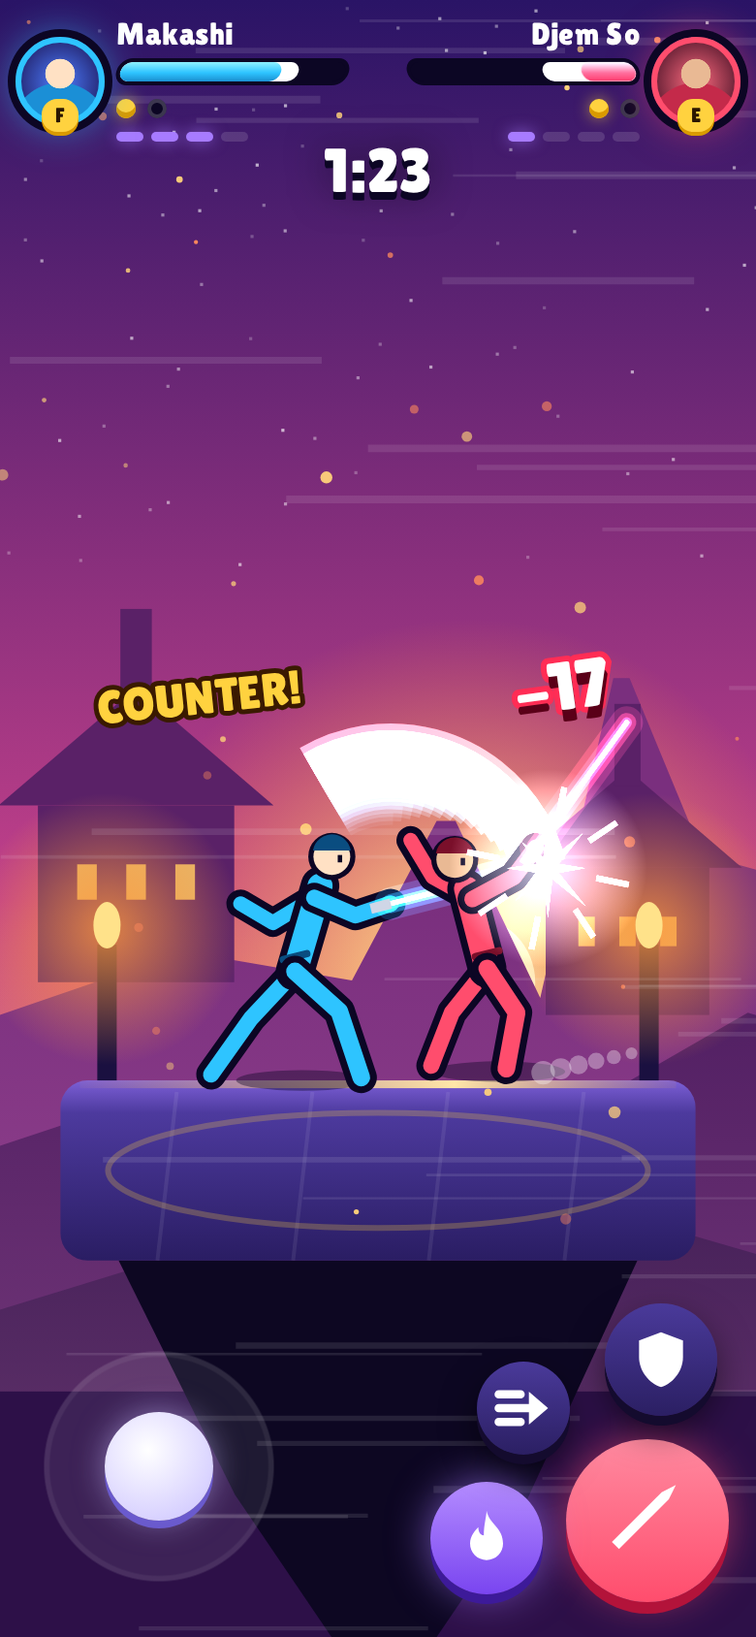
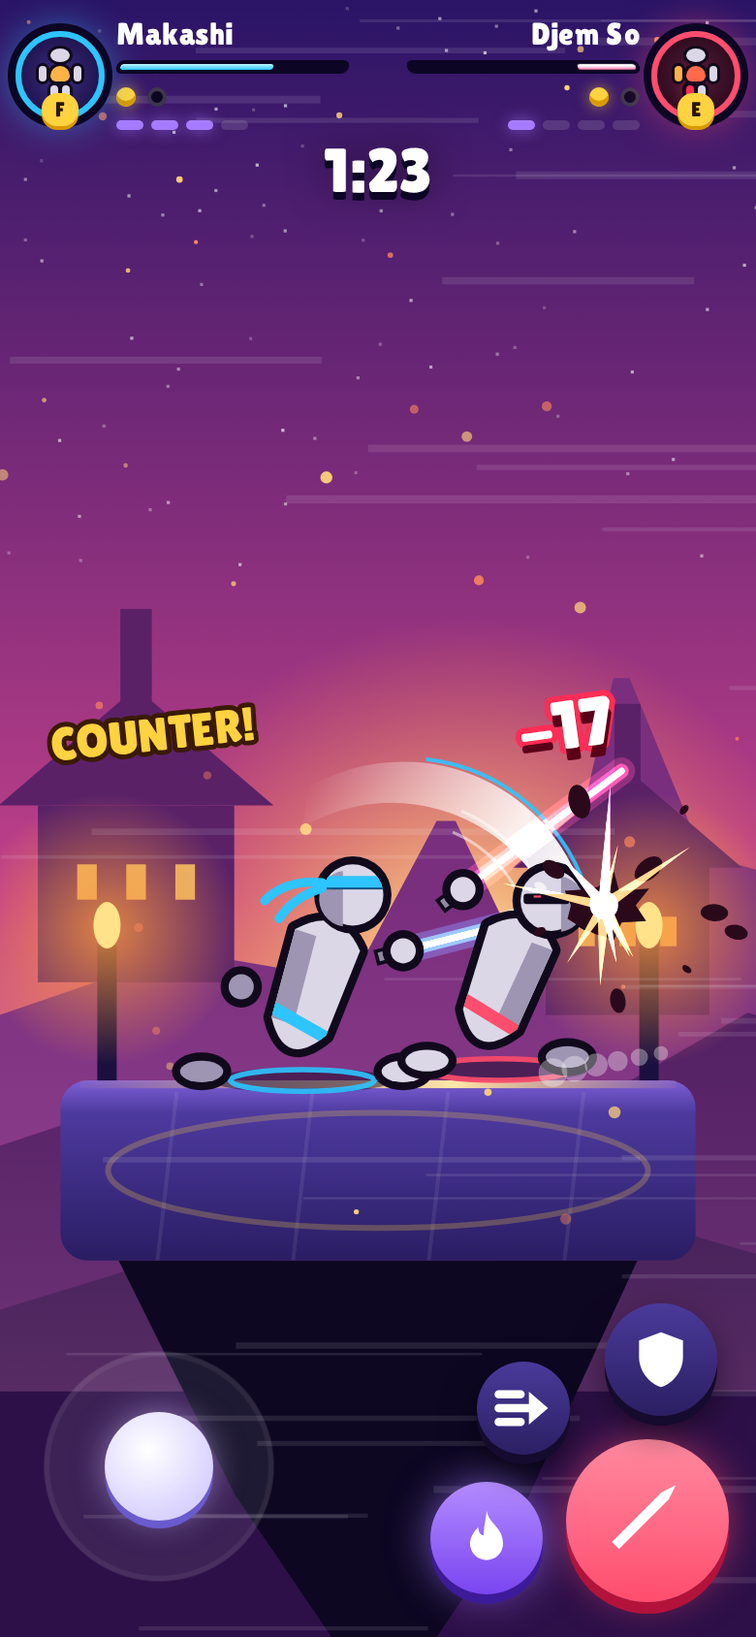
Redraw mockup fighters in a grim, Madness-inspired style; HUD uses injury doll and stamina

diff --git a/docs/v5-look/mock.html b/docs/v5-look/mock.html
@@ -35,7 +35,7 @@ canvas.bg{position:absolute;inset:0;width:100%;height:100%}
 .logo{font:400 3.2rem/0.9 var(--display);letter-spacing:.01em;background:linear-gradient(#fff 30%,#ffe08a 60%,#ff9a3c);-webkit-background-clip:text;color:transparent;filter:drop-shadow(0 4px 0 #3a1a00) drop-shadow(0 0 18px #ff8a3d88);transform:rotate(-3deg)}
 .logo small{display:block;font-size:.9rem;letter-spacing:.3em;background:none;color:var(--blue);-webkit-text-fill-color:var(--blue);filter:none;margin-top:4px;text-shadow:0 0 12px #2ec4ff}
 .player{margin-left:auto;display:flex;align-items:center;gap:12px;background:#1d1347cc;border:2px solid var(--line);border-radius:999px;padding:6px 18px 6px 6px;backdrop-filter:blur(6px)}
-.avatar{width:48px;height:48px;border-radius:50%;background:radial-gradient(circle at 50% 38%,#ffe1c4 0 26%,transparent 27%),radial-gradient(circle at 50% 110%,var(--blue) 0 48%,transparent 49%),linear-gradient(#3d6cff,#22164f);border:3px solid var(--blue);box-shadow:0 0 14px #2ec4ff88}
+.avatar{width:48px;height:48px;border-radius:50%;background:linear-gradient(transparent 28%,var(--blue) 28% 40%,transparent 40%) 50% 0/52% 100% no-repeat,radial-gradient(circle at 50% 42%,#dcd7e6 0 27%,#100a1c 28% 33%,transparent 34%),radial-gradient(circle at 50% 118%,#dcd7e6 0 44%,#100a1c 45% 50%,transparent 51%),linear-gradient(#3b2c86,#160c3a);border:3px solid var(--blue);box-shadow:0 0 14px #2ec4ff88}
 .player b{display:block;font:400 1.15rem/1 var(--display)}
 .rank{display:inline-flex;align-items:center;gap:6px;font-size:.8rem;color:var(--gold)}
 .rank i{display:inline-block;width:14px;height:14px;background:var(--gold);clip-path:polygon(50% 0,100% 38%,82% 100%,18% 100%,0 38%)}
@@ -59,8 +59,8 @@ canvas.bg{position:absolute;inset:0;width:100%;height:100%}
 .hud{position:absolute;inset:0;pointer-events:none}
 .fighter{position:absolute;top:18px;display:flex;align-items:center;gap:12px;width:min(38vw,440px)}
 .fighter.left{left:22px}.fighter.right{right:22px;flex-direction:row-reverse;text-align:right}
-.port{flex:none;width:78px;height:78px;border-radius:50%;border:4px solid var(--blue);background:radial-gradient(circle at 50% 40%,#ffe1c4 0 24%,transparent 25%),radial-gradient(circle at 50% 115%,#1b8fd6 0 50%,transparent 51%),radial-gradient(circle,#4c7dff,#1b1150);box-shadow:0 0 0 4px #0c0624,0 0 22px #2ec4ffaa;position:relative}
-.right .port{border-color:var(--red);background:radial-gradient(circle at 50% 40%,#e9b994 0 24%,transparent 25%),radial-gradient(circle at 50% 115%,#c42a4a 0 50%,transparent 51%),radial-gradient(circle,#ff6a7f,#3a0b20);box-shadow:0 0 0 4px #0c0624,0 0 22px #ff4d6daa}
+.port{flex:none;width:78px;height:78px;border-radius:50%;border:4px solid var(--blue);background:linear-gradient(transparent 31%,var(--blue) 31% 42%,transparent 42%) 50% 0/48% 100% no-repeat,radial-gradient(circle at 50% 44%,#dcd7e6 0 26%,#100a1c 27% 31%,transparent 32%),radial-gradient(circle at 50% 120%,#dcd7e6 0 44%,#100a1c 45% 49%,transparent 50%),radial-gradient(circle,#3b2c86,#160c3a);box-shadow:0 0 0 4px #0c0624,0 0 22px #2ec4ffaa;position:relative}
+.right .port{border-color:var(--red);background:linear-gradient(transparent 38%,#100a1c 38% 47%,transparent 47%) 50% 0/48% 100% no-repeat,radial-gradient(circle at 50% 44%,#dcd7e6 0 26%,#100a1c 27% 31%,transparent 32%),radial-gradient(circle at 50% 120%,#dcd7e6 0 44%,#100a1c 45% 49%,transparent 50%),radial-gradient(circle,#5a1a3a,#1e0716);box-shadow:0 0 0 4px #0c0624,0 0 22px #ff4d6daa}
 .port .lv{position:absolute;bottom:-8px;left:50%;transform:translateX(-50%);font:400 .85rem/1 var(--display);background:var(--gold);color:#2a1600;padding:3px 7px;border-radius:8px;box-shadow:0 2px 0 var(--gold-dk)}
 .fbody{flex:1;min-width:0}
 .fname{font:400 1.5rem/1 var(--display);letter-spacing:.01em}
@@ -102,8 +102,8 @@ canvas.bg{position:absolute;inset:0;width:100%;height:100%}
 .side.b .score{color:var(--blue)}.side.r .score{color:var(--red)}
 .roster{display:flex;gap:5px;flex-wrap:wrap;max-width:320px}
 .side.r .roster{justify-content:flex-end}
-.roster i{width:24px;height:24px;border-radius:50%;border:3px solid var(--blue);background:radial-gradient(circle at 50% 42%,#ffe1c4 0 26%,#1b8fd6 27%)}
-.side.r .roster i{border-color:var(--red);background:radial-gradient(circle at 50% 42%,#e9b994 0 26%,#c42a4a 27%)}
+.roster i{width:24px;height:24px;border-radius:50%;border:3px solid var(--blue);background:radial-gradient(circle at 50% 50%,#dcd7e6 0 52%,#100a1c 53%)}
+.side.r .roster i{border-color:var(--red)}
 .roster i.ko{filter:grayscale(1) brightness(.45);border-color:#555}
 .obj{display:flex;gap:10px}
 .obj i{width:46px;height:46px;border-radius:12px;display:grid;place-items:center;font:400 1.4rem/1 var(--display);transform:rotate(45deg);box-shadow:0 4px 0 #0008}
@@ -150,6 +150,19 @@ canvas.bg{position:absolute;inset:0;width:100%;height:100%}
   .feed{top:64px;right:8px}.feed div{font-size:.72rem;padding:4px 7px}
 }
 @media (min-width:601px){.pad,.acts{display:none}}
+.port{background:radial-gradient(circle,#3b2c86,#160c3a)!important}
+.right .port{background:radial-gradient(circle,#5a1a3a,#1e0716)!important}
+.doll{position:absolute;inset:16% 22% 18%;display:grid;grid-template-columns:repeat(4,1fr);grid-template-rows:1.15fr 1.35fr 1.1fr;gap:3px}
+.doll i{background:#dcd7e6;border-radius:5px;box-shadow:0 0 0 2px #100a1c}
+.doll .h{grid-area:1/2/2/4;border-radius:50%}.doll .la{grid-area:2/1/3/2}.doll .t{grid-area:2/2/3/4;border-radius:7px 7px 4px 4px}.doll .ra{grid-area:2/4/3/5}.doll .ll{grid-area:3/2/4/3}.doll .rl{grid-area:3/3/4/4}
+.doll [data-l=hurt]{background:#ffb347}.doll [data-l=severe]{background:#ff6b4a}.doll [data-l=fatal]{background:#ff2d55;box-shadow:0 0 0 2px #100a1c,0 0 8px #ff2d55}
+.stam{position:relative;height:10px;margin-top:8px;max-width:240px;border-radius:6px;background:#0c0624;border:2px solid #0c0624;overflow:hidden;transform:skewX(-14deg)}
+.right .stam{margin-left:auto;transform:skewX(14deg)}
+.stam b{position:absolute;inset:0;width:var(--v);border-radius:4px;background:linear-gradient(#bff6ff,var(--blue))}
+.right .stam b{left:auto;right:0;background:linear-gradient(#ffd0d8,var(--red))}
+.stam.low b{animation:pulse .6s ease-in-out infinite alternate}
+@media (max-width:600px){.doll{gap:2px}.doll i{border-radius:3px;box-shadow:0 0 0 1.5px #100a1c}.stam{height:7px;margin-top:5px}}
+
 </style>
 </head>
 <body>
@@ -183,9 +196,9 @@ canvas.bg{position:absolute;inset:0;width:100%;height:100%}
 
 <!-- DUEL HUD -->
 <section class="hud" id="duel" hidden>
-  <div class="fighter left"><div class="port"><span class="lv">F</span></div><div class="fbody"><div class="fname">Makashi<em>1240</em></div><div class="bar" style="--hp:72%;--trail:80%"><div class="trail"></div><div class="hp"></div></div><div class="pips"><i></i><i class="off"></i></div><div class="force"><b></b><b></b><b></b><b class="off"></b></div></div></div>
+  <div class="fighter left"><div class="port"><span class="doll"><i class="h"></i><i class="t" data-l=hurt></i><i class="la"></i><i class="ra"></i><i class="ll"></i><i class="rl"></i></span><span class="lv">F</span></div><div class="fbody"><div class="fname">Makashi<em>1240</em></div><div class="stam" style="--v:68%"><b></b></div><div class="pips"><i></i><i class="off"></i></div><div class="force"><b></b><b></b><b></b><b class="off"></b></div></div></div>
   <div class="clock"><b>1:23</b><span>ROUND 2</span></div>
-  <div class="fighter right"><div class="port"><span class="lv">E</span></div><div class="fbody"><div class="fname">Djem So<em>1188</em></div><div class="bar low" style="--hp:24%;--trail:41%"><div class="trail"></div><div class="hp"></div></div><div class="pips"><i></i><i class="off"></i></div><div class="force"><b></b><b class="off"></b><b class="off"></b><b class="off"></b></div></div></div>
+  <div class="fighter right"><div class="port"><span class="doll"><i class="h"></i><i class="t" data-l=severe></i><i class="la" data-l=hurt></i><i class="ra"></i><i class="ll" data-l=fatal></i><i class="rl"></i></span><span class="lv">E</span></div><div class="fbody"><div class="fname">Djem So<em>1188</em></div><div class="stam low" style="--v:26%"><b></b></div><div class="pips"><i></i><i class="off"></i></div><div class="force"><b></b><b class="off"></b><b class="off"></b><b class="off"></b></div></div></div>
   <div class="dmg" id="dmg">-17</div>
   <div class="call" id="call">COUNTER!</div>
   <div class="dock">
@@ -265,51 +278,86 @@ function platform(c,w,h,py){
   // torches
   for(const tx of [L+24,Rr-24]){c.fillStyle='#1a1040';c.fillRect(tx-5,py-70,10,70);glow(c,tx,py-78,70,'#ff9a3dcc');c.fillStyle='#ffe28a';c.beginPath();c.ellipse(tx,py-80,7,12,0,0,7);c.fill();}
 }
-/* stick fighter: thick limbs, round joints, team color body, outline */
+/* Grim fighter: round faceless head, tapered body, floating hands and feet, thick ink outline.
+   Team color lives on the accessory, the sash, the blade and the ring under the feet. */
+const INK='#100a1c';
 function fighter(c,o){
-  const {x,y,s,team,pose}=o;const col=team==='b'?'#2ec4ff':'#ff4d6d',dk=team==='b'?'#0a4d80':'#7a0f2a',skin=team==='b'?'#ffe1c4':'#e9b994';
-  const P=pose;const J=(a)=>[x+a[0]*s,y+a[1]*s];
-  const seg=(a,b,wd,cl)=>{c.strokeStyle=cl;c.lineWidth=wd;c.lineCap='round';c.beginPath();c.moveTo(...J(a));c.lineTo(...J(b));c.stroke();};
-  const limb=(pts,wd)=>{for(const [ww,cl] of [[wd+7,'#0c0624'],[wd,col]]){c.strokeStyle=cl;c.lineWidth=ww;c.lineCap='round';c.lineJoin='round';c.beginPath();c.moveTo(...J(pts[0]));for(const p of pts.slice(1))c.lineTo(...J(p));c.stroke();}};
-  // shadow
-  c.fillStyle='#0c062266';c.beginPath();c.ellipse(x,y+1.02*s,0.45*s,0.07*s,0,0,7);c.fill();
-  limb(P.backLeg,s*.11);limb(P.backArm,s*.1);
-  limb([P.hip,P.neck],s*.17);
-  // belt/sash accent
-  c.strokeStyle=dk;c.lineWidth=s*.05;c.beginPath();c.moveTo(...J([P.hip[0]-.08,P.hip[1]-.08]));c.lineTo(...J([P.hip[0]+.08,P.hip[1]-.12]));c.stroke();
-  limb(P.frontLeg,s*.12);
-  // head
-  const [hx,hy]=J(P.head);c.fillStyle='#0c0624';c.beginPath();c.arc(hx,hy,s*.16,0,7);c.fill();c.fillStyle=skin;c.beginPath();c.arc(hx,hy,s*.125,0,7);c.fill();
-  c.fillStyle=dk;c.beginPath();c.arc(hx,hy-s*.02,s*.13,Math.PI*1.05,Math.PI*1.95);c.fill();
-  c.fillStyle='#0c0624';const ex=P.face||1;c.fillRect(hx+ex*s*.04,hy-s*.01,s*.03,s*.05);
-  limb(P.frontArm,s*.11);
-  // saber
-  const [h1x,h1y]=J(P.frontArm[P.frontArm.length-1]);const ang=P.saber,len=s*1.05;const tx=h1x+Math.cos(ang)*len,ty=h1y+Math.sin(ang)*len;
+  const {x,y,s,team,pose:P}=o;const acc=o.acc??0;
+  const col=team==='b'?'#2ec4ff':'#ff4d6d',dk=team==='b'?'#0a4d80':'#7a0f2a';
+  const body='#dcd7e6',shade='#9d95b2',J=a=>[x+a[0]*s,y+a[1]*s],face=P.face||1;
+  const ol=s*.045;
+  // shadow and team ring
+  c.fillStyle='#0c062277';c.beginPath();c.ellipse(x,y+1.02*s,.5*s,.07*s,0,0,7);c.fill();
+  c.save();c.strokeStyle=col;c.globalAlpha=.9;c.lineWidth=s*.03;c.beginPath();c.ellipse(x,y+1.02*s,.4*s,.06*s,0,0,7);c.stroke();c.restore();
+  const blob=(p,rx,ry,rot,fill)=>{const [cx,cy]=J(p);c.save();c.translate(cx,cy);c.rotate(rot);c.fillStyle=INK;c.beginPath();c.ellipse(0,0,rx+ol,ry+ol,0,0,7);c.fill();c.fillStyle=fill;c.beginPath();c.ellipse(0,0,rx,ry,0,0,7);c.fill();c.restore();};
+  const foot=(p,f)=>blob(p,s*.12,s*.06,0,f);
+  const hand=(p,f)=>blob(p,s*.07,s*.07,0,f);
+  // back foot, back hand behind the body
+  foot([P.bf[0]+face*.04,P.bf[1]-.03],shade);hand(P.bh,shade);
+  // torso: tapered from broad shoulders to narrow hips
+  const [hx,hy]=J(P.hip),[nx,ny]=J(P.neck);let dx=nx-hx,dy=ny-hy;const L=Math.hypot(dx,dy);dx/=L;dy/=L;const px=-dy,py=dx;
+  const wh=s*.16,wn=s*.19;
+  const torso=()=>{c.beginPath();c.moveTo(hx+px*wh,hy+py*wh);c.lineTo(nx+px*wn,ny+py*wn);c.quadraticCurveTo(nx+dx*wn*1.1,ny+dy*wn*1.1,nx-px*wn,ny-py*wn);c.lineTo(hx-px*wh,hy-py*wh);c.quadraticCurveTo(hx-dx*wh*1.6,hy-dy*wh*1.6,hx+px*wh,hy+py*wh);c.closePath();};
+  c.save();c.lineJoin='round';torso();c.lineWidth=ol*2;c.strokeStyle=INK;c.stroke();c.fillStyle=body;c.fill();
+  torso();c.clip();c.fillStyle=shade;c.beginPath();c.moveTo(hx-px*wh*face,hy-py*wh*face);c.lineTo(nx-px*wn*face,ny-py*wn*face);c.lineTo(nx-px*wn*.35*face,ny-py*wn*.35*face);c.lineTo(hx-px*wh*.2*face,hy-py*wh*.2*face);c.fill();
+  // sash in team color
+  c.strokeStyle=col;c.lineWidth=s*.07;c.beginPath();c.moveTo(hx+px*wh*1.3-dx*s*.02,hy+py*wh*1.3-dy*s*.02);c.lineTo(hx-px*wh*1.3+dx*s*.06,hy-py*wh*1.3+dy*s*.06);c.stroke();
+  c.restore();
+  // front foot
+  foot([P.ff[0]+face*.04,P.ff[1]-.03],body);
+  // head: separate from the body, no face
+  const [qx,qy]=J(P.head),hr=s*.17;
+  c.fillStyle=INK;c.beginPath();c.arc(qx,qy,hr+ol,0,7);c.fill();c.fillStyle=body;c.beginPath();c.arc(qx,qy,hr,0,7);c.fill();
+  c.fillStyle=shade;c.beginPath();c.arc(qx-face*hr*.18,qy+hr*.12,hr*.92,Math.PI*(face>0?.55:-.45),Math.PI*(face>0?1.45:.45));c.fill();
+  c.fillStyle='#ffffffaa';c.beginPath();c.ellipse(qx+face*hr*.35,qy-hr*.45,hr*.22,hr*.13,-.5*face,0,7);c.fill();
+  // accessory
+  c.save();c.beginPath();c.arc(qx,qy,hr,0,7);c.clip();
+  if(acc===0){c.fillStyle=col;c.fillRect(qx-hr,qy-hr*.62,hr*2,hr*.42);c.fillStyle=dk;c.fillRect(qx-hr,qy-hr*.24,hr*2,hr*.06);}
+  if(acc===1){c.fillStyle=INK;c.beginPath();c.roundRect(qx-hr*.15+face*hr*.15-hr*.6,qy-hr*.22,hr*1.5,hr*.34,hr*.1);c.fill();c.fillStyle=col;c.fillRect(qx+face*hr*.45-hr*.12,qy-hr*.16,hr*.24,hr*.07);}
+  if(acc===2){c.fillStyle=INK;c.fillRect(qx-hr,qy-hr*.2,hr*2,hr*.36);c.save();c.globalCompositeOperation='lighter';c.fillStyle=col;c.fillRect(qx-hr*.1+face*hr*.2-hr*.5,qy-hr*.1,hr*1.2,hr*.14);c.restore();}
+  if(acc===3){c.strokeStyle=INK;c.lineWidth=hr*.16;c.beginPath();c.moveTo(qx+face*hr*.3,qy-hr*.45);c.lineTo(qx+face*hr*.3,qy+hr*.35);c.moveTo(qx+face*hr*.3-hr*.38,qy-hr*.05);c.lineTo(qx+face*hr*.3+hr*.38,qy-hr*.05);c.stroke();}
+  c.restore();
+  if(acc===0){c.strokeStyle=col;c.lineWidth=s*.05;c.lineCap='round';c.beginPath();const tx=qx-face*hr,ty=qy-hr*.4;c.moveTo(tx,ty);c.quadraticCurveTo(tx-face*s*.2,ty-s*.02,tx-face*s*.32,ty+s*.1);c.moveTo(tx,ty+s*.03);c.quadraticCurveTo(tx-face*s*.16,ty+s*.08,tx-face*s*.24,ty+s*.2);c.stroke();}
+  if(acc===3){c.strokeStyle=col;c.lineWidth=s*.04;c.beginPath();c.arc(qx,qy,hr+ol*.4,Math.PI*1.1,Math.PI*1.9);c.stroke();}
+  // saber from the front hand
+  const [h1x,h1y]=J(P.fh);const ang=P.saber,len=s*1.1;const tx=h1x+Math.cos(ang)*len,ty=h1y+Math.sin(ang)*len;
   c.save();c.globalCompositeOperation='lighter';
-  for(const [wd,a] of [[s*.22,.18],[s*.13,.35],[s*.07,.8]]){c.strokeStyle=col;c.globalAlpha=a;c.lineWidth=wd;c.lineCap='round';c.beginPath();c.moveTo(h1x,h1y);c.lineTo(tx,ty);c.stroke();}
+  for(const [wd,a] of [[s*.15,.22],[s*.08,.55]]){c.strokeStyle=col;c.globalAlpha=a;c.lineWidth=wd;c.lineCap='round';c.beginPath();c.moveTo(h1x,h1y);c.lineTo(tx,ty);c.stroke();}
   c.globalAlpha=1;c.strokeStyle='#fff';c.lineWidth=s*.035;c.beginPath();c.moveTo(h1x,h1y);c.lineTo(tx,ty);c.stroke();c.restore();
-  c.strokeStyle='#cfd6e6';c.lineWidth=s*.07;c.lineCap='butt';c.beginPath();c.moveTo(h1x-Math.cos(ang)*s*.14,h1y-Math.sin(ang)*s*.14);c.lineTo(h1x,h1y);c.stroke();
+  c.strokeStyle=INK;c.lineWidth=s*.09;c.lineCap='butt';c.beginPath();c.moveTo(h1x-Math.cos(ang)*s*.16,h1y-Math.sin(ang)*s*.16);c.lineTo(h1x+Math.cos(ang)*s*.05,h1y+Math.sin(ang)*s*.05);c.stroke();
+  c.strokeStyle='#8f8aa0';c.lineWidth=s*.05;c.beginPath();c.moveTo(h1x-Math.cos(ang)*s*.14,h1y-Math.sin(ang)*s*.14);c.lineTo(h1x+Math.cos(ang)*s*.04,h1y+Math.sin(ang)*s*.04);c.stroke();
+  hand(P.fh,body);
   return {tip:[tx,ty],hilt:[h1x,h1y],col};
 }
+/* Sharp slash: a thin crescent with a hard white edge and team-color rim. */
 function smear(c,cx,cy,r,a0,a1,col){
-  c.save();c.globalCompositeOperation='lighter';
-  for(let i=0;i<14;i++){const t=i/13;c.globalAlpha=.05+.4*t;c.strokeStyle=i>10?'#fff':col;c.lineWidth=r*(.08+.25*t);c.beginPath();c.arc(cx,cy,r*(.55+.45*t),a0,a0+(a1-a0)*(.3+.7*t),a1<a0);c.stroke();}
+  c.save();
+  const off=r*.16,mid=(a0+a1)/2,ox=Math.cos(mid)*off,oy=Math.sin(mid)*off;
+  c.beginPath();c.arc(cx,cy,r,a0,a1);c.arc(cx-ox,cy-oy,r*.93,a1,a0,true);c.closePath();
+  const g=c.createLinearGradient(cx+Math.cos(a0)*r,cy+Math.sin(a0)*r,cx+Math.cos(a1)*r,cy+Math.sin(a1)*r);g.addColorStop(0,'#ffffff00');g.addColorStop(.7,'#ffffffdd');g.addColorStop(1,'#ffffff');
+  c.fillStyle=g;c.fill();c.strokeStyle=col;c.lineWidth=2;c.globalAlpha=.9;c.beginPath();c.arc(cx,cy,r+2,a0+(a1-a0)*.35,a1);c.stroke();
+  c.globalAlpha=.5;c.strokeStyle='#fff';c.lineWidth=1.5;for(const k of [.8,.68]){c.beginPath();c.arc(cx,cy,r*k,a0+(a1-a0)*.5,a1);c.stroke();}
   c.restore();
 }
+/* Gritty impact: jagged shards, hot core, dark ink splats. */
 function spark(c,x,y,r,col){
-  c.save();c.globalCompositeOperation='lighter';glow(c,x,y,r*2.4,col+'cc');
-  c.fillStyle='#fff';c.beginPath();for(let i=0;i<16;i++){const a=i/16*Math.PI*2,rr=i%2?r*.28:r*(.9+((i*37)%5)/10);c.lineTo(x+Math.cos(a)*rr,y+Math.sin(a)*rr);}c.closePath();c.fill();
-  c.strokeStyle='#fff';c.lineWidth=3;for(let i=0;i<8;i++){const a=i/8*Math.PI*2+.2;c.beginPath();c.moveTo(x+Math.cos(a)*r*1.2,y+Math.sin(a)*r*1.2);c.lineTo(x+Math.cos(a)*r*2,y+Math.sin(a)*r*2);c.stroke();}
+  const R=rnd(Math.round(x*13+y));
+  c.save();
+  c.fillStyle='#2a0a1a';for(let i=0;i<9;i++){const a=R()*7,d=r*(1.1+R()*1.6),sz=r*(.06+R()*.16);c.beginPath();c.ellipse(x+Math.cos(a)*d,y+Math.sin(a)*d,sz*1.6,sz,a,0,7);c.fill();}
+  c.beginPath();for(let i=0;i<14;i++){const a=i/14*Math.PI*2,rr=r*(.35+R()*.5);c.lineTo(x+Math.cos(a)*rr*1.3,y+Math.sin(a)*rr);}c.closePath();c.fill();
+  c.globalCompositeOperation='lighter';
+  for(let i=0;i<11;i++){const a=R()*Math.PI*2,l=r*(.9+R()*1.6),w=r*(.06+R()*.08);c.fillStyle=i%3?'#ffd27a':'#ffffff';c.beginPath();c.moveTo(x+Math.cos(a+1.57)*w,y+Math.sin(a+1.57)*w);c.lineTo(x+Math.cos(a)*l,y+Math.sin(a)*l);c.lineTo(x+Math.cos(a-1.57)*w,y+Math.sin(a-1.57)*w);c.fill();}
+  c.fillStyle='#fff';c.beginPath();c.arc(x,y,r*.28,0,7);c.fill();
   c.restore();
 }
 function speedLines(c,w,h){c.save();c.globalAlpha=.10;c.strokeStyle='#fff';const R=rnd(3);for(let i=0;i<40;i++){const y=R()*h,x=R()*w;c.lineWidth=1+R()*3;c.beginPath();c.moveTo(x,y);c.lineTo(x+120+R()*200,y);c.stroke();}c.restore();}
 
 const poses={
-  lunge:{hip:[-.05,.28],neck:[.12,-.3],head:[.2,-.5],frontLeg:[[-.05,.28],[.25,.55],[.4,1]],backLeg:[[-.05,.28],[-.35,.6],[-.62,.98]],frontArm:[[.08,-.22],[.36,-.1],[.6,-.18]],backArm:[[.08,-.22],[-.2,-.05],[-.42,-.18]],saber:-0.25,face:1},
-  hurt:{hip:[.08,.32],neck:[.22,-.22],head:[.3,-.42],frontLeg:[[.08,.32],[-.12,.62],[-.05,1]],backLeg:[[.08,.32],[.32,.62],[.46,.98]],frontArm:[[.18,-.15],[-.1,-.3],[-.25,-.5]],backArm:[[.18,-.15],[.45,-.3],[.6,-.55]],saber:-2.2,face:-1},
-  guard:{hip:[0,.3],neck:[-.04,-.3],head:[-.06,-.52],frontLeg:[[0,.3],[-.22,.62],[-.3,1]],backLeg:[[0,.3],[.25,.62],[.36,1]],frontArm:[[-.02,-.22],[-.25,-.05],[-.32,-.3]],backArm:[[-.02,-.22],[.2,-.05],[.1,.1]],saber:-1.9,face:-1},
-  run:{hip:[0,.3],neck:[.15,-.28],head:[.24,-.48],frontLeg:[[0,.3],[.32,.5],[.25,.9]],backLeg:[[0,.3],[-.25,.58],[-.55,.62]],frontArm:[[.1,-.2],[.3,0],[.5,.05]],backArm:[[.1,-.2],[-.15,-.05],[-.3,.1]],saber:.15,face:1},
-  air:{hip:[0,.2],neck:[.05,-.38],head:[.1,-.6],frontLeg:[[0,.2],[.3,.35],[.15,.6]],backLeg:[[0,.2],[-.2,.45],[-.45,.4]],frontArm:[[.05,-.3],[.3,-.55],[.45,-.8]],backArm:[[.05,-.3],[-.25,-.2],[-.45,-.35]],saber:-1.0,face:1},
+  lunge:{hip:[-.02,.72],neck:[.14,.24],head:[.28,-.01],ff:[.52,1],bf:[-.6,1],fh:[.56,.3],bh:[-.34,.5],saber:-.25,face:1},
+  hurt:{hip:[.05,.74],neck:[-.12,.29],head:[-.29,.08],ff:[.36,1],bf:[-.42,.98],fh:[.2,.02],bh:[-.52,.14],saber:-2.5,face:1},
+  guard:{hip:[0,.72],neck:[.04,.25],head:[.08,-.01],ff:[.42,1],bf:[-.44,1],fh:[.3,.32],bh:[.02,.56],saber:-1.3,face:1},
+  run:{hip:[0,.7],neck:[.2,.26],head:[.35,.04],ff:[.46,.95],bf:[-.5,.8],fh:[.46,.5],bh:[-.3,.46],saber:.4,face:1},
+  air:{hip:[0,.6],neck:[.08,.14],head:[.14,-.11],ff:[.3,.92],bf:[-.36,.82],fh:[.4,-.18],bh:[-.4,.25],saber:-1.1,face:1},
 };
 function mirror(p){const m=a=>[-a[0],a[1]];const o={};for(const k in p){const v=p[k];o[k]=k==='saber'?Math.PI-v:k==='face'?-v:Array.isArray(v[0])?v.map(m):m(v);}return o;}
 
@@ -325,24 +373,24 @@ function arenaScene(c,w,h,mode){
   // falling embers
   const R=rnd(99);for(let i=0;i<40;i++){c.globalAlpha=.4+R()*.6;c.fillStyle=R()>.5?'#ffd27a':'#ff8a5c';c.beginPath();c.arc(R()*w,R()*h*.9,1+R()*2.2,0,7);c.fill();}c.globalAlpha=1;
   if(mode==='duel'){
-    const s=w<600?h*.09:h*.16;const ax=w*(w<600?.4:.43),bx=w*(w<600?.66:.6);
+    const s=w<600?h*.11:h*.19;const ax=w*(w<600?.4:.43),bx=w*(w<600?.66:.6);
     speedLines(c,w,h);
-    const a=fighter(c,{x:ax,y:py-s*1.02,s,team:'b',pose:poses.lunge});
+    const a=fighter(c,{x:ax,y:py-s*1.02,s,team:'b',pose:poses.lunge,acc:0});
     smear(c,a.hilt[0],a.hilt[1],s*1.05,-2.1,-0.25,'#2ec4ff');
-    fighter(c,{x:bx,y:py-s*1.02-s*.06,s,team:'r',pose:mirror(poses.hurt)});
+    fighter(c,{x:bx,y:py-s*1.02-s*.06,s,team:'r',pose:mirror(poses.hurt),acc:1});
     spark(c,a.tip[0]+s*.05,a.tip[1]+s*.02,s*.28,'#ffffff');
     // knockback dust
     c.fillStyle='#ffffff55';for(let i=0;i<6;i++){c.beginPath();c.arc(bx+s*.3+i*s*.12,py-4-i*2,s*(.08-i*.008),0,7);c.fill();}
     const d=document.getElementById('dmg'),cl=document.getElementById('call');
-    d.style.left=(bx+s*.1)+'px';d.style.top=(py-s*2.9)+'px';cl.style.left=(ax-s*1.4)+'px';cl.style.top=(py-s*2.75)+'px';
+    d.style.left=(bx+s*.1)+'px';d.style.top=(py-s*2.15)+'px';cl.style.left=(ax-s*1.4)+'px';cl.style.top=(py-s*2.05)+'px';
   }
   if(mode==='squad'){
-    const s=w<600?h*.05:h*.085;const R2=rnd(5);
+    const s=w<600?h*.06:h*.1;const R2=rnd(5);
     // capture zones
     for(const [zx,col] of [[.22,'#2ec4ff'],[.5,'#ffffff'],[.78,'#ff4d6d']]){c.save();c.globalAlpha=.35;c.strokeStyle=col;c.lineWidth=4;c.setLineDash([12,10]);c.beginPath();c.ellipse(w*zx,py+h*.05,s*2.2,s*.45,0,0,7);c.stroke();c.restore();}
     const list=[];for(let i=0;i<9;i++)list.push({x:w*(.12+R2()*.36),t:'b',p:['run','lunge','guard','air'][i%4]});for(let i=0;i<8;i++)list.push({x:w*(.52+R2()*.36),t:'r',p:['run','guard','lunge','hurt'][i%4]});
     list.sort((p,q)=>p.x-q.x);
-    for(const f of list){const air=f.p==='air';const pose=f.t==='b'?poses[f.p]:mirror(poses[f.p]);fighter(c,{x:f.x,y:py-s*1.02-(air?s*.9:0)+R2()*6,s,team:f.t,pose});}
+    for(const f of list){const air=f.p==='air';const pose=f.t==='b'?poses[f.p]:mirror(poses[f.p]);fighter(c,{x:f.x,y:py-s*1.02-(air?s*.9:0)+R2()*6,s,team:f.t,pose,acc:Math.floor(R2()*4)});}
     spark(c,w*.5,py-s*1.2,s*.35,'#ffffff');smear(c,w*.47,py-s*1.3,s,-2.2,-.4,'#2ec4ff');
   }
 }
@@ -353,13 +401,13 @@ function cardArt(cv,kind){
   glow(c,w*.75,h*.3,Math.max(w,h)*.6,'#ffffff44');
   ridge(c,w,h,h*.78,h*.12,'#00000055',kind.length*13);
   const s=Math.min(h*.32,w*.22);
-  if(kind==='duel'){const a=fighter(c,{x:w*.42,y:h*.42,s,team:'b',pose:poses.lunge});fighter(c,{x:w*.72,y:h*.44,s,team:'r',pose:mirror(poses.guard)});spark(c,a.tip[0],a.tip[1],s*.3,'#ffffff');}
+  if(kind==='duel'){const a=fighter(c,{x:w*.42,y:h*.42,s,team:'b',pose:poses.lunge});fighter(c,{x:w*.72,y:h*.44,s,team:'r',pose:mirror(poses.guard),acc:2});spark(c,a.tip[0],a.tip[1],s*.3,'#ffffff');}
   if(kind==='fronts'){c.globalAlpha=.5;c.strokeStyle='#fff';c.lineWidth=6;for(const k of [-1,0,1]){c.beginPath();c.moveTo(w*.15,h*.85);c.quadraticCurveTo(w*(.5+k*.25),h*(.5-k*.0),w*.85,h*.15);c.stroke();}c.globalAlpha=1;
     for(const [x,y,cl] of [[w*.15,h*.85,'#2ec4ff'],[w*.85,h*.15,'#ff4d6d']]){c.fillStyle=cl;c.beginPath();c.moveTo(x,y-22);c.lineTo(x+16,y);c.lineTo(x,y+22);c.lineTo(x-16,y);c.fill();glow(c,x,y,50,cl+'aa');}
     fighter(c,{x:w*.62,y:h*.36,s:s*.75,team:'b',pose:poses.run});}
   if(kind==='tour'){c.fillStyle='#ffd23f';c.beginPath();const x=w*.7,y=h*.42;c.moveTo(x-30,y-40);c.lineTo(x+30,y-40);c.lineTo(x+22,y);c.quadraticCurveTo(x,y+18,x-22,y);c.closePath();c.fill();c.fillRect(x-6,y+10,12,20);c.fillRect(x-20,y+28,40,9);glow(c,x,y-10,90,'#ffd23f66');}
-  if(kind==='gaunt'){for(let i=0;i<5;i++){c.fillStyle='#00000055';c.fillRect(w*.5+i*18,h*(.7-i*.1),w,h);}fighter(c,{x:w*.72,y:h*.12,s:s*.7,team:'b',pose:poses.air});}
-  if(kind==='heroes'){for(const [i,t] of [[0,'b'],[1,'r'],[2,'b']])fighter(c,{x:w*(.52+i*.16),y:h*(.36+(i%2)*.04),s:s*.7,team:t,pose:i===1?mirror(poses.guard):poses.guard});}
+  if(kind==='gaunt'){for(let i=0;i<5;i++){c.fillStyle='#00000055';c.fillRect(w*.5+i*18,h*(.7-i*.1),w,h);}fighter(c,{x:w*.72,y:h*.12,s:s*.7,team:'b',pose:poses.air,acc:2});}
+  if(kind==='heroes'){for(const [i,t] of [[0,'b'],[1,'r'],[2,'b']])fighter(c,{x:w*(.52+i*.16),y:h*(.36+(i%2)*.04),s:s*.7,team:t,pose:i===1?mirror(poses.guard):poses.guard,acc:i===1?1:i===0?0:3});}
 }
 
 if(view==='menu'){

diff --git a/docs/v5-look/README.md b/docs/v5-look/README.md
@@ -46,7 +46,7 @@ The arena backdrop stays darker and cooler than the fighters, so fighters always
 
 ## Fight HUD (fixed zones, nothing else in a fight)
 
-- **Top corners:** round portrait in team color with rank badge, name, Elo small. Skewed health bar with a white trail that lags behind big hits. Round pips. Four Force segments.
+- **Top corners:** round portrait in team color holding a six-part body doll for real injury states, rank badge, name, Elo small. Slim stamina bar from the real value. Round pips. Force segments from the real value. No HP bar (Clara).
 - **Top center:** timer, round number.
 - **Desktop bottom:** skill dock with key badges and a cooldown sweep.
 - **Phone:** thumb stick bottom left; big attack button and three round skills bottom right; HUD scales down; no dock.
@@ -66,7 +66,8 @@ The arena backdrop stays darker and cooler than the fighters, so fighters always
 
 - Illustrated parallax layers: sky, far ridge, buildings, near ridge.
 - A floating stage with rim light, torch glow and drifting embers.
-- **Fighters:** thick round-capped limbs in team color, a dark outline on every fighter, head with a hair or helmet shape.
+- **Fighters (sketch for Clara's pass):** grim, Madness-inspired but our own. Round faceless head, tapered body, floating hands and feet, thick ink outline, low wide stance. Bodies pale grey; team color on bandana, shades, visor or sash, the blade, and a ring under the feet.
+- **Impacts:** thin sharp slash crescents, jagged spark shards, dark ink splats.
 - **Sabers:** additive glow with a white core.
 
 ## Tech (Clara's call)
